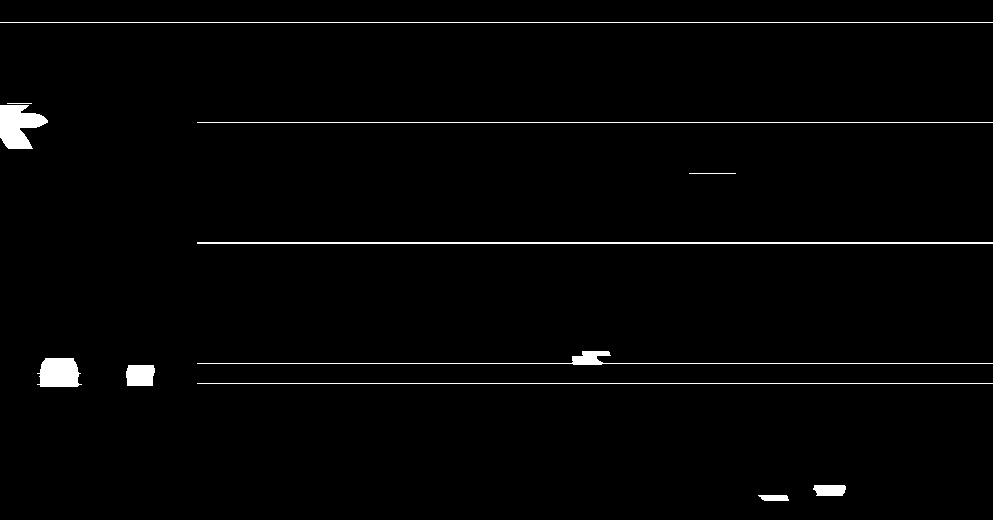
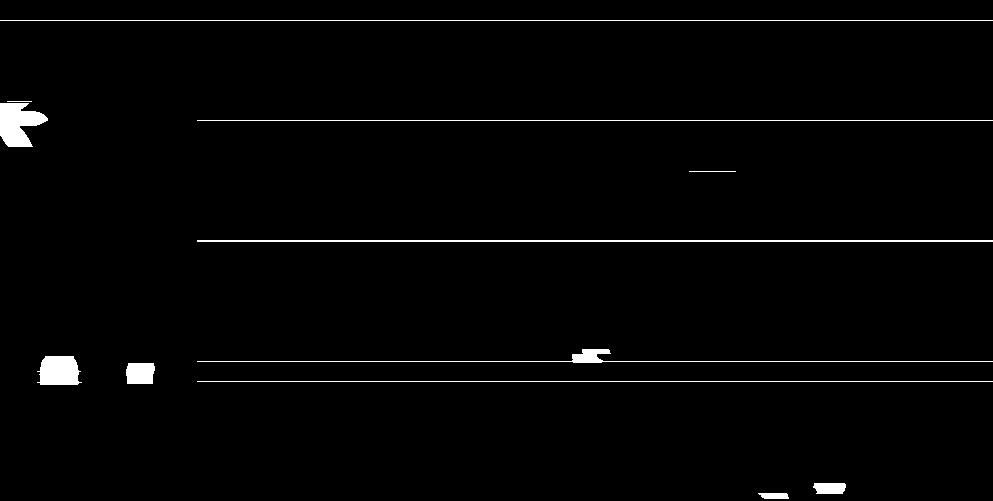
feat: xlsx 파일로 메뉴 추출 로직 완성

diff --git a/function.py b/function.py
@@ -19,6 +19,11 @@ class Recognition:
         rect = img[y:y+h, x:x+w] # Crop the image - note we do this on the original image
         # cv2.imshow("Cropped", rect) # Show it
         resize_rect = cv2.resize(rect, (1085, 760)) # 사이즈 통일
+
+        with open("src/results/day_list.text", 'w') as f:
+            out = pytesseract.image_to_string(resize_rect, lang = "kor")
+            f.write(out)
+
         cv2.imwrite("src/results/trimmed_whiteSpace.png", resize_rect) # Save the image
         return "src/results/trimmed_whiteSpace.png", resize_rect
 
@@ -26,27 +31,26 @@ class Recognition:
     def CropImage(self, src):
         image = Image.open(src)
         size = image.size
-        crop = image.crop((92, 140, size[0], size[1]-100))
+        crop = image.crop((92, 142, size[0], size[1]-117))
         # crop.show()
         crop.save('src/results/cropped_image.png')
         return 'src/results/cropped_image.png', crop
 
-    ## 엑셀 데이터 빈 셀로만 이뤄진 행, 열 제거
-    def removeCell(self, src):
+    ## 빈 행, 열 제거 / columns, index 변경
+    def reviseCell(self, src):
         df = pd.read_excel(src)
         df.drop(['Unnamed: 0'], axis = 1, inplace=True) #의도하지 않게 추가되는 Unnamed: 0 컬럼 제거.
         df_1 = df.dropna(axis=0, thresh=3, inplace=True) #inplace=True, dropna 가 적용된 DataFrame에 dronap 적용.
         df_1 = df.dropna(axis=1, thresh=2) #thresh, 임계치 설정해서 적용하기 / how='all' 전체가 결측값인 행, 열 제거.
 
         day_list = []
-        with open("src/results/day_list.text", 'w') as f:
-            f.write(str(df_1.iloc[0]))
+        ## '첫번째 행 요소 추가'
         with open("src/results/day_list.text", 'r') as f:
+            pattern = "([0-9]+월)\s*([0-9]+일)"
             for line in f:
-                pattern = "([0-9]+월)\s*([0-9]+일)"
-                if '월' in line and '일' in line:
-                    day = re.search(pattern, line)
-                    day_list.append(day.group())
+                if re.search(pattern, line):
+                    list_1 = line.replace('70월', '10월').replace('\n','').split("  ")
+                    day_list = list(filter(None, list_1))
 
         df_2 = df_1.rename(
             index={
@@ -55,29 +59,19 @@ class Recognition:
                 df_1.index[2]: '중식-일품',
                 df_1.index[3]: '석식',
             },
+            columns={
+                df_1.columns[0]: day_list[0],
+                df_1.columns[1]: day_list[1],
+                df_1.columns[2]: day_list[2],
+                df_1.columns[3]: day_list[3],
+                df_1.columns[4]: day_list[4]
+            }
         )
 
-
         df_2.to_excel('src/results/data.xlsx')
-        return 'src/results/data.xlsx'
+        return 'src/results/data.xlsx', df_2
 
-
-
-
-
-
-
-
-
-
-
-
-
-
-
-
-
-    ##제글자 추출
+    ##글자 추출
     def ExtractText(self, src):
         img = cv2.imread(src, cv2.IMREAD_COLOR)
         copy_img = img.copy()

diff --git a/app.py b/app.py
@@ -13,17 +13,11 @@ from function import Recognition
 from imageToXlsx import extractXlsx
 
 src = 'src/images/b93927bd-e957-440d-accc-b4320e29de85.png'
+# src = 'src/images/eaac2f9f-709d-44d0-9c67-9fa70c195de8.png'
 
-# trimmedWhiteSpace = Recognition().trimWhiteSpace(src)
-# croppedImage = Recognition().CropImage(trimmedWhiteSpace[0])
-# csvData = extractXlsx(croppedImage[0])
-
-Recognition().removeCell('src/results/output.xlsx')
-
-
-
-#
-# file = pd.read_csv('new.txt', delimiter = '\t')
-# new_csv_file = file.to_csv( './new.csv')
+trimmedWhiteSpace = Recognition().trimWhiteSpace(src)
+croppedImage = Recognition().CropImage(trimmedWhiteSpace[0])
+xlsxData = extractXlsx(croppedImage[0])
+revisedXlsx = Recognition().reviseCell(xlsxData)
 
 

diff --git a/imageToXlsx.py b/imageToXlsx.py
@@ -166,7 +166,7 @@ def extractXlsx(file):
     #Creating a dataframe of the generated OCR list
     arr = np.array(outer)
     dataframe = pd.DataFrame(arr.reshape(len(row),countcol))
-    print(dataframe)
+#     print(dataframe)
     data = dataframe.style.set_properties(align="left")
     #Converting it in a excel-file
     data.to_excel("./src/results/output.xlsx")
